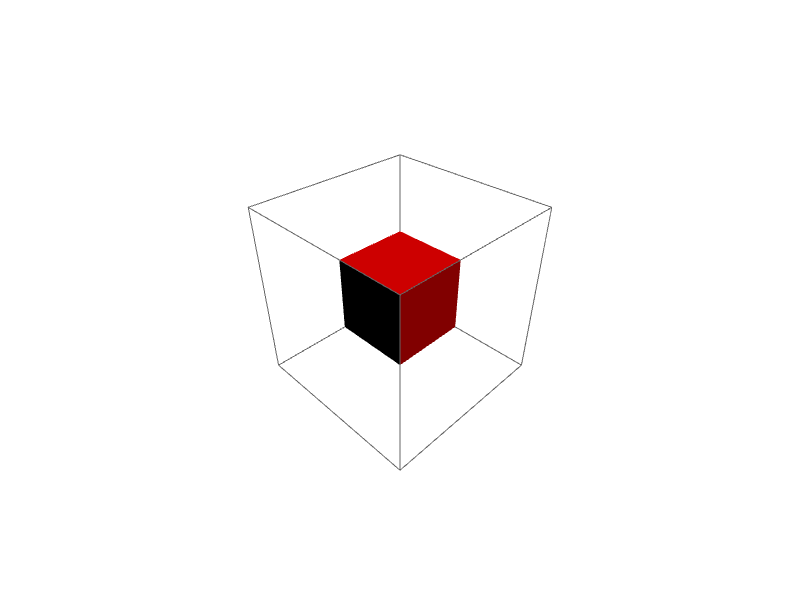
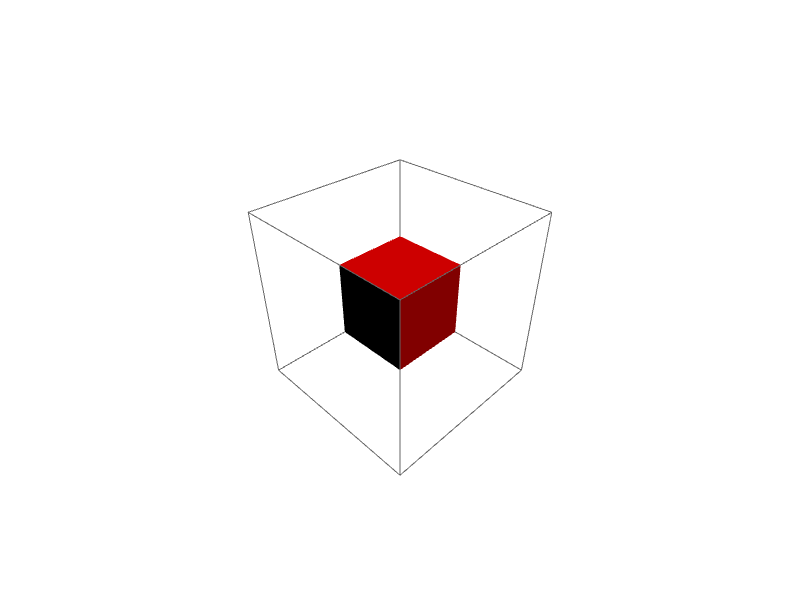
Replace canvasSize + innerWidthMultiplier by CSS alternative
Add conversion to the translate layer.
Update reference images due to small deltas.
Update CHANGES.md.

diff --git a/src/graphics3d.js b/src/graphics3d.js
@@ -24,9 +24,7 @@ export default function (
 		elements = [],
 		lighting = [],
 		viewpoint = [1.3, -2.4, 2]
-	},
-	maxSize = 400,
-	innerWidthMultiplier = 0.65
+	}
 ) {
 	axes.hasaxes ??= false;
 	extent ??= calculateExtent(elements);
@@ -41,15 +39,24 @@ export default function (
 		onMouseDownTheta,
 		phi,
 		onMouseDownPhi,
-		onTouchStartFingersDistance,
-		canvasSize = Math.min(maxSize, window.innerWidth * innerWidthMultiplier);
+		onTouchStartFingersDistance;
 
 	const onMouseDownPosition = new Int16Array(2);
 
-	container.style.width = canvasSize + 'px';
-	// to avoid overflow when a tick numbers is out of the parent element
-	container.style.height = canvasSize + 10 + 'px';
-
+	container.style.display ||= 'block';
+	container.style.width ||= '65vw';
+	container.style.maxWidth ||= '400px';
+	container.style.height ||= '65vw';
+	container.style.maxHeight ||= '400px';
+	// Avoid overflow when a tick numbers is out of the parent element.
+	container.style.paddingTop ||= '5px';
+	container.style.paddingBottom ||= '5px';
+	// Currently the axes labels are drawn using HTML elements with
+	// `position: absolute` so the graphics container must have
+	// `position: relative` to draw the axes labels.
+	// We don't overwrite it because the user may want to make the container
+	// have an absolute position.
+	container.style.position ||= 'relative';
 	container.style.cursor ||= 'pointer';
 	const defaultCursor = container.style.cursor;
 
@@ -241,7 +248,7 @@ export default function (
 
 	// plot the primitives
 	elements.forEach(
-		(element) => scene.add(primitiveFunctions[element.type](element, uniforms, extent, canvasSize))
+		(element) => scene.add(primitiveFunctions[element.type](element, uniforms, extent, container))
 	);
 
 	const renderer = new WebGLRenderer({
@@ -249,8 +256,13 @@ export default function (
 		alpha: true
 	});
 
-	renderer.setSize(canvasSize, canvasSize);
+	renderer.setSize(
+		parseInt(getComputedStyle(container).width),
+		parseInt(getComputedStyle(container).height)
+	);
 	renderer.setPixelRatio(window.devicePixelRatio);
+	renderer.domElement.style.width = '100%';
+	renderer.domElement.style.height = '100%';
 	container.appendChild(renderer.domElement);
 
 	function render() {
@@ -316,7 +328,7 @@ export default function (
 		const clientX = touch ? event.touches[0].clientX : event.clientX;
 		const clientY = touch ? event.touches[0].clientY : event.clientY;
 
-		positionTickNumbers(hasAxes, tickNumbers, ticks, camera, canvasSize, maxSize);
+		positionTickNumbers(hasAxes, tickNumbers, ticks, camera, container);
 
 		if (event.shiftKey) { // pan with mouse
 			if (!isShiftDown) {
@@ -338,9 +350,11 @@ export default function (
 				.normalize()
 				.cross(cameraX);
 
-			focus.x = onMouseDownFocus.x + (radius / canvasSize) * (cameraX.x * (onMouseDownPosition[0] - clientX) + cameraY.x * (onMouseDownPosition[1] - clientY));
-			focus.y = onMouseDownFocus.y + (radius / canvasSize) * (cameraX.y * (onMouseDownPosition[0] - clientX) + cameraY.y * (onMouseDownPosition[1] - clientY));
-			focus.z = onMouseDownFocus.z + (radius / canvasSize) * (cameraY.z * (onMouseDownPosition[1] - clientY));
+			const { width } = getComputedStyle(container);
+
+			focus.x = onMouseDownFocus.x + (radius / parseInt(width)) * (cameraX.x * (onMouseDownPosition[0] - clientX) + cameraY.x * (onMouseDownPosition[1] - clientY));
+			focus.y = onMouseDownFocus.y + (radius / parseInt(width)) * (cameraX.y * (onMouseDownPosition[0] - clientX) + cameraY.y * (onMouseDownPosition[1] - clientY));
+			focus.z = onMouseDownFocus.z + (radius / parseInt(width)) * (cameraY.z * (onMouseDownPosition[1] - clientY));
 
 			updateCameraPosition();
 		} else if (event.ctrlKey || (touch && event.touches.length === 2)) { // zoom
@@ -385,8 +399,11 @@ export default function (
 
 			container.style.cursor = 'grabbing';
 
-			phi = onMouseDownPhi + 2 * Math.PI * (onMouseDownPosition[0] - clientX) / canvasSize;
-			theta = onMouseDownTheta + 2 * Math.PI * (onMouseDownPosition[1] - clientY) / canvasSize;
+			const { width, height } = getComputedStyle(container);
+
+			phi = onMouseDownPhi + 2 * Math.PI * (onMouseDownPosition[0] - event.clientX) / parseInt(width);
+
+			theta = onMouseDownTheta + 2 * Math.PI * (onMouseDownPosition[1] - event.clientY) / parseInt(height);
 
 			// This prevents spinning over the poles by keeping the angle
 			// in the range [1e-12, Pi - 1e-12].
@@ -410,7 +427,7 @@ export default function (
 
 		if (autoRescale) {
 			scaleInView();
-			positionTickNumbers(hasAxes, tickNumbers, ticks, camera, canvasSize, maxSize);
+			positionTickNumbers(hasAxes, tickNumbers, ticks, camera, container);
 			render();
 		}
 	}
@@ -426,18 +443,15 @@ export default function (
 	container.addEventListener('touchend', onMouseUp);
 
 	window.addEventListener('resize', () => {
-		canvasSize = Math.min(maxSize, window.innerWidth * innerWidthMultiplier);
-		container.style.width = canvasSize + 'px';
-		// to avoid overflow when a tick numbers is out of the parent element
-		container.style.height = canvasSize + 10 + 'px';
+		const { width, height } = getComputedStyle(container);
 
-		renderer.setSize(canvasSize, canvasSize);
+		renderer.setSize(parseInt(width), parseInt(height));
 
-		positionTickNumbers(hasAxes, tickNumbers, ticks, camera, canvasSize, maxSize);
+		positionTickNumbers(hasAxes, tickNumbers, ticks, camera, container);
 	});
 
 	updateCameraPosition();
 	scaleInView();
 	render();
-	positionTickNumbers(hasAxes, tickNumbers, ticks, camera, canvasSize, maxSize);
+	positionTickNumbers(hasAxes, tickNumbers, ticks, camera, container);
 }

diff --git a/src/axes.js b/src/axes.js
@@ -6,7 +6,7 @@ import {
 import { scalePartialCoordinate } from './coordinateUtils.js';
 
 // This changes the value of position.
-function toCanvasCoords(position, camera, canvasSize, maxSize) {
+function getTickInformation(position, camera, container) {
 	position.applyMatrix4(
 		new Matrix4().multiplyMatrices(
 			camera.projectionMatrix,
@@ -14,10 +14,25 @@ function toCanvasCoords(position, camera, canvasSize, maxSize) {
 		)
 	);
 
-	return [
-		(position.x + 1) * 200 * canvasSize / maxSize,
-		(1 - position.y) * 200 * canvasSize / maxSize
+	const { width, height } = getComputedStyle(container);
+
+	const tickPosition = [
+		(position.x + 1) * 0.5
+		// scale by currentWidth
+		* parseInt(width),
+		(1 - position.y) * 0.5
+		// scale by currentHeight
+		* parseInt(height)
 	];
+
+	return {
+		position: tickPosition,
+		insideCanvas:
+			tickPosition[0] < 5
+			|| tickPosition[1] < 5
+			|| tickPosition[0] > width - 5
+			|| tickPosition[1] > height - 5
+	};
 }
 
 // i is 0, 1 or 2.
@@ -33,20 +48,13 @@ function getTickDirection(i, radius) {
 	}
 }
 
-export function positionTickNumbers(
-	hasAxes,
-	tickNumbers,
-	ticks,
-	camera,
-	canvasSize,
-	maxSize
-) {
+export function positionTickNumbers(hasAxes, tickNumbers, ticks, camera, container) {
 	for (let i = 0; i < 3; i++) {
 		if (hasAxes[i]) {
 			for (let j = 0; j < tickNumbers[i].length; j++) {
-				// The code bellow moves the tick numbers so they aren't
-				// over the tick marks.
-				const tickPosition = toCanvasCoords(
+				const tickInformation = getTickInformation(
+					// The code bellow moves the tick numbers so they aren't
+					// over the tick marks.
 					new Vector3(
 						ticks[i].geometry.attributes.position.array[j * 6] * 7 - ticks[i].geometry.attributes.position.array[j * 6 + 3] * 6,
 
@@ -59,15 +67,14 @@ export function positionTickNumbers(
 						ticks[i].geometry.attributes.position.array[j * 6 + 2]
 					),
 					camera,
-					canvasSize,
-					maxSize
+					container
 				);
 
-				if (tickPosition[0] < 5 || tickPosition[0] > 395 || tickPosition[1] < 5 || tickPosition[1] > 395) {
+				if (tickInformation.insideCanvas) {
 					tickNumbers[i][j].style.display = 'none';
 				} else {
-					tickNumbers[i][j].style.left = `${tickPosition[0]}px`;
-					tickNumbers[i][j].style.top = `${tickPosition[1]}px`;
+					tickNumbers[i][j].style.left = `${tickInformation.position[0]}px`;
+					tickNumbers[i][j].style.top = `${tickInformation.position[1]}px`;
 					tickNumbers[i][j].style.display = '';
 				}
 			}

diff --git a/src/primitives/line.js b/src/primitives/line.js
@@ -14,7 +14,7 @@ import { getBasicMaterial } from '../shader.js';
 // for the high-level description of what is being rendered.
 // Differently from WL's Line, our lines aren't affected by
 // lightning and therefore don't have VertexNormals.
-export default function ({ color = [0, 0, 0], coords, dashed = false, gapSize = 10, opacity = 1 }, uniforms, extent, canvasSize) {
+export default function ({ color = [0, 0, 0], coords, dashed = false, gapSize = 10, opacity = 1 }, uniforms, extent, container) {
 	return new Line(
 		new BufferGeometry().setAttribute(
 			'position',
@@ -52,7 +52,12 @@ export default function ({ color = [0, 0, 0], coords, dashed = false, gapSize = 
 					out vec4 pc_fragColor;
 
 					void main() {
-						float doubleDistance = length((vertexPosition - startPosition) * vec2(${canvasSize}));
+						float doubleDistance = length(
+							(vertexPosition - startPosition) * vec2(
+								${parseInt(getComputedStyle(container).width)},
+								${parseInt(getComputedStyle(container).height)}
+							)
+						);
 
 						float quadrupleGapInverse = ${(1 / (4 * gapSize)).toFixed(4)};
 

diff --git a/src/primitives/point.js b/src/primitives/point.js
@@ -13,7 +13,7 @@ import { getPopulatedCoordinateBuffer } from '../bufferUtils.js';
 // for the high-level description of what is being rendered.
 // Differently from WL's Point, our points aren't affected by
 // lightning and therefore don't have VertexNormals.
-export default function ({ color = [0, 0, 0], coords, opacity = 1, pointSize }, uniforms, extent, canvasSize) {
+export default function ({ color = [0, 0, 0], coords, opacity = 1, pointSize }, uniforms, extent, container) {
 	return new Points(
 		new BufferGeometry().setAttribute(
 			'position',
@@ -32,7 +32,7 @@ export default function ({ color = [0, 0, 0], coords, opacity = 1, pointSize }, 
 				uniform mat4 modelViewMatrix;
 
 				void main() {
-					gl_PointSize = ${(pointSize * canvasSize).toFixed(4)};
+					gl_PointSize = ${(pointSize * parseInt(getComputedStyle(container).width)).toFixed(4)};
 					gl_Position = projectionMatrix * modelViewMatrix * vec4(position, 1);
 				}
 			`,

diff --git a/src/index.js b/src/index.js
@@ -38,7 +38,12 @@ function translationLayer(container, object, maxSize, innerWidthMultiplier) {
 		light.type = light.type.toLowerCase();
 	});
 
-	return drawGraphics3d(container, object, maxSize, innerWidthMultiplier);
+	container.style.maxWidth = maxSize + 'px';
+	container.style.width = (100 * innerWidthMultiplier) + 'vw';
+	container.style.maxHeight = maxSize + 'px';
+	container.style.width = 100 * innerWidthMultiplier + 'vw';
+
+	return drawGraphics3d(container, object);
 }
 
 window.drawGraphics3d = translationLayer;

diff --git a/CHANGES.md b/CHANGES.md
@@ -8,6 +8,7 @@ Improvements:
 - Update three.js to r138 (#96)
 - Add support to smartphones (#97)
 - Add option to disable `autoRescale` (#100)
+- Replace canvasSize + innerWidthMultiplier by CSS alternative (#73, #101)
 
 Internals:
 - Rename branch master to main
